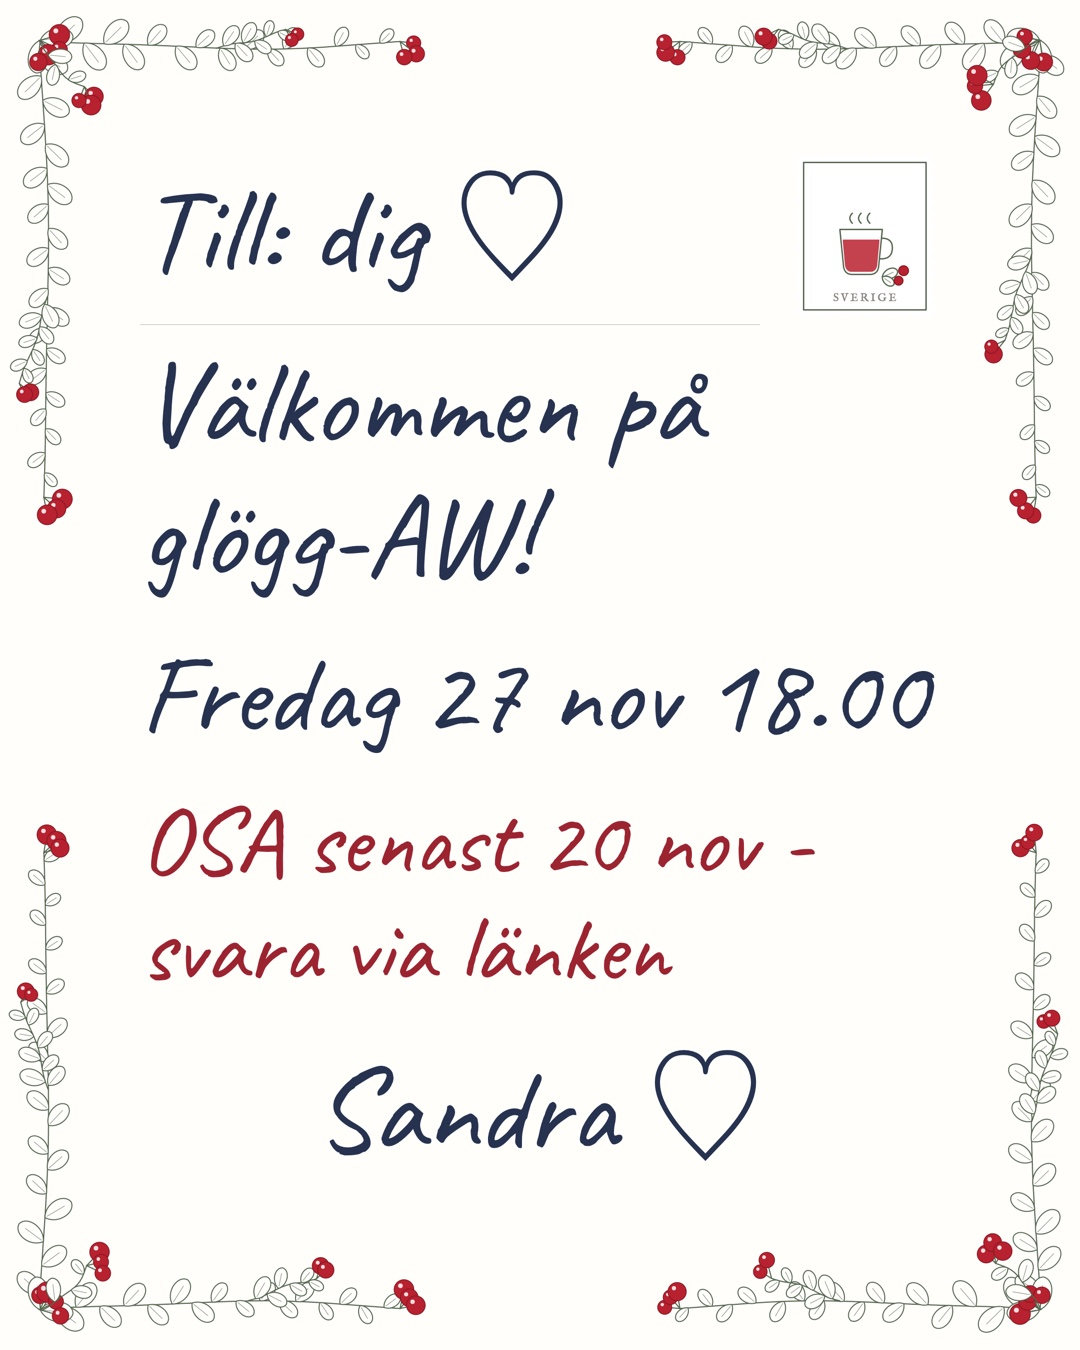
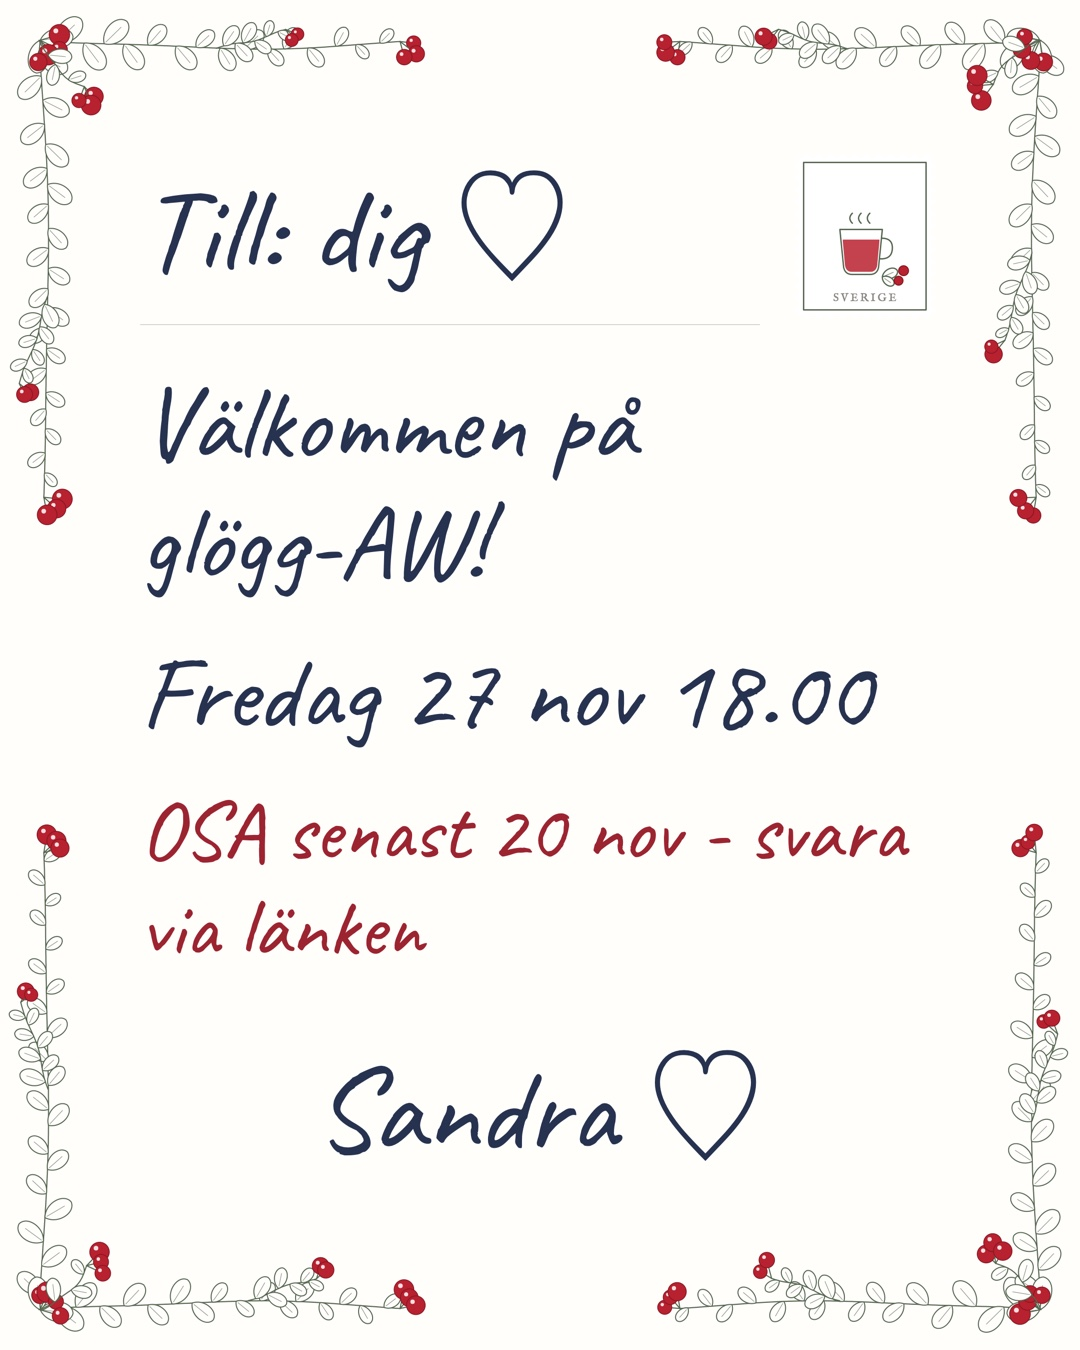
Body text a bit smaller; name and signature unchanged

Changed region(s): [[0.1222, 0.2489, 0.8861, 0.56], [0.1222, 0.5911, 0.8556, 0.7467], [0.4278, 0.6844, 0.6111, 0.7467]]

diff --git a/card.html b/card.html
@@ -19,11 +19,11 @@
   .line { font-size: 120px; padding-bottom: 10px; border-bottom: 1px solid var(--rule); }
   .top .line { flex: 1; }
   .from { text-align: center; border-bottom: 0; }
-  .msg { font-size: 118px; line-height: 1.12; margin: auto 0; }
+  .msg { font-size: 104px; line-height: 1.15; margin: auto 0; }
   .msg .when { margin-top: 30px; }
   .fit { white-space: nowrap; }
   .nw { white-space: nowrap; }
-  .msg .osa { margin-top: 30px; font-size: 96px; color: var(--berry-ink); }
+  .msg .osa { margin-top: 30px; font-size: 84px; color: var(--berry-ink); }
 </style>
 </head>
 <body>
